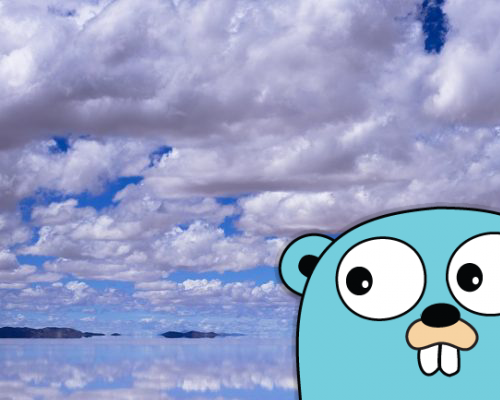
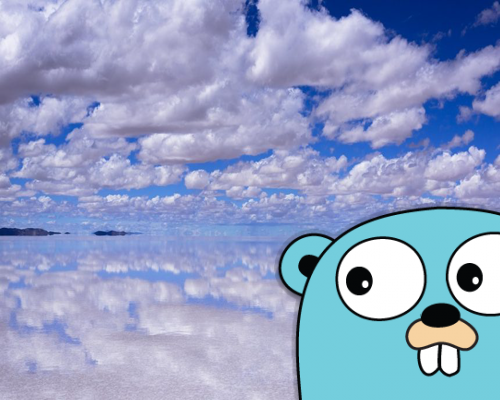
tweak

diff --git a/main.go b/main.go
@@ -31,6 +31,7 @@ func main() {
 	if err != nil {
 		log.Fatal(err)
 	}
+	_ = gopher
 
 	// resize by specifing px
 	dst := image.NewRGBA(image.Rect(0, 0, 500, 400))
@@ -38,8 +39,8 @@ func main() {
 
 	// compose
 	offset := image.Pt(bg.Bounds().Dx()/6, bg.Bounds().Dy()/4)
-	draw.Draw(dst, dst.Bounds(), bg, image.ZP, draw.Src)
-	draw.Draw(dst, gopher.Bounds().Add(offset), gopher, image.ZP, draw.Over)
+	// draw.Draw(dst, dst.Bounds(), bg, image.ZP, draw.Src)
+	draw.Draw(dst, gopher.Bounds().Add(offset), gopher, image.Point{0, 0}, draw.Over)
 
 	// create output file
 	outputName := "new.png"
